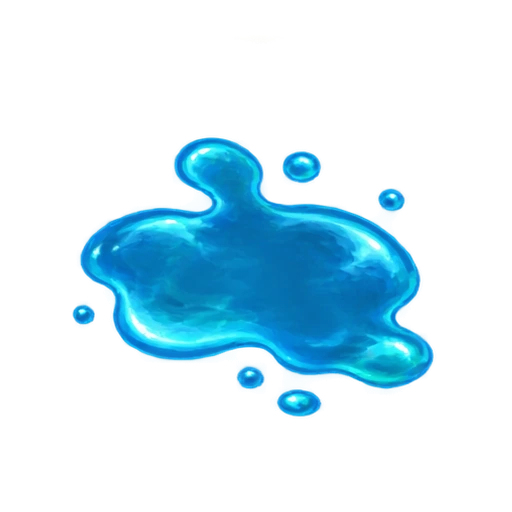
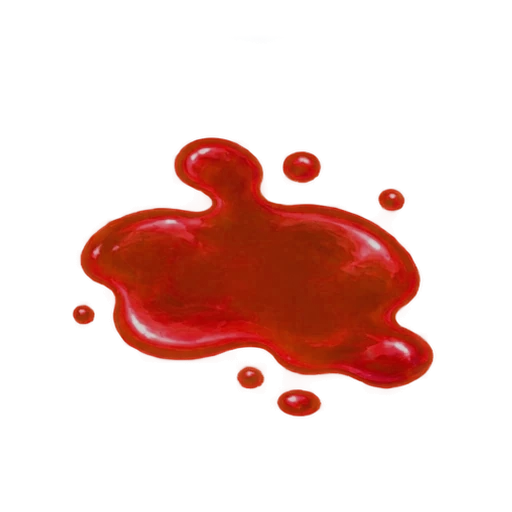
Плейтест владельца: кровь красная; слова комикса реже (пауза 1.1 с, обычные через раз), на весь экран — только босс/высокий удар/ДОСТОЙНЕЙШИЙ/связка, остальные у места удара и мельче вдали; перезарядка броска Мьёльнира 7 с, идеальный хват −5 с (качается трейтом/телом); GD_QUESTIONS п. 2 — глаголы ми
Claude-Session: https://claude.ai/code/session_01VJTLKmnhNNamp4KX9nU53m

Changed region(s): [[0.1562, 0.25, 0.8438, 0.8125], [0.4375, 0.7188, 0.5312, 0.7812], [0.125, 0.5938, 0.1875, 0.6562]]

diff --git a/CLAUDE.md b/CLAUDE.md
@@ -5,6 +5,7 @@
 ## Где что
 - `player/player.gd` — движение (рывок, двойной прыжок, удар-приземление, супер-прыжок; GDD 7.2: отскок от удара-приземления, прыжок по головам, залезание на уступ, отскок от стены, пике, отмена удара-приземления рывком — блок «Прыжки по GDD 7.2»), урон; `player/camera_fx.gd` — тряска/FOV/наклон.
 - `weapons/` — топор (`axe.gd`), Мьёльнир (`mjolnir_hand.gd` + `mjolnir_projectile.gd`: состояния OUT / HOVER / STUCK «воткнулся» / RETURN, идеальный хват), огонь (`fire_zone.gd`).
+- **Перезарядка броска Мьёльнира:** `MjolnirHand.throw_cooldown` (7 с от броска) и `perfect_cooldown_refund` (идеальный хват −5 с); качается — трейт `modify(&"throw_cooldown"/"perfect_cooldown_refund")`, тело/перк `player.modify_stat("hammer_cooldown_mult")`. Бросок на перезарядке — осечка (`throw_blocked`, звук, HUD «ПЕРЕЗАРЯДКА …» красным); новый зал — сброс (`reset_cooldown` в `Game._load_room`). Тесты, где важны броски подряд, ставят `hand.throw_cooldown = 0`; сама перезарядка — в `catch_test`.
 - **Подсказка идеального хвата:** `ui/catch_assist.gd` (`CatchAssist`, создаёт `VfxScreen._ready`) — сходящееся к прицелу кольцо по `MjolnirProjectile.catch_eta()` (прокрутка того же возврата вперёд; точно до кадра), золотое окно ±`perfect_window` (до и после поимки, `MjolnirHand.perfect_window_left()`), клавиша броска, стрелка «откуда летит», итог «ИДЕАЛЬНО!/РАНО/ПОЗДНО · мс» (сигнал `MjolnirHand.catch_timing`). Выключатель `[access] catch_assist` (по умолчанию вкл). Тест — `tests/catch_test.tscn` (с `-- <папка>` под xvfb — кадры).
 - **Трейты Мьёльнира — стихии × приёмы (блок Б4, GDD 10):** `weapons/mjolnir_trait.gd` (`MjolnirTrait`: `kind` element/technique/combo, описания уровней 1–4, `group` + `conflicts` — несовместимость приёмов, `level_pool_ids` — id открытий бывших трейтов по уровням стихии, `all_ids()` для `Save.target_exists`) и `weapons/mjolnir_trait_handler.gd` (`MjolnirTraitHandler`, хуки `on_throw`/`on_flight_tick`/`on_hit_enemy`/`on_hit_world`/`on_stuck_tick`/`on_recall_start`/`on_recall_tick`/`on_caught`/`on_player_slam`/`on_perfect_catch`, удержание ПКМ `on_hold_start/tick/release`, события для связок `on_pull_arrive`/`on_dive_slam`/`on_swap`, `modify(stat)` — в т. ч. `hold_throw`; урон — `hurt()` = `player.deal_damage`). Стихии (огонь, лёд, молния, земля, ветер) — наследники `MjolnirElementHandler` (`weapons/mjolnir_element.gd`: уровни = способ доставки 1 попадание / 2 след / 3 аура воткнутого / 4 с неба, `apply_element`, `slam_combo`, `world_effect` — брага `BrewPuddle.electrify_near/ignite_near`, бочки), состояния на враге — `weapons/element_status.gd` (`ElementStatus`), пятна следа — `weapons/element_zone.gd`. Приёмы и стихии — `weapons/mjolnir_traits/<id>.tres` + `<id>.gd`, связки — `weapons/mjolnir_traits/combos/` (включаются сами: `Run.active_combos()`, сигнал `Run.mjolnir_combo_unlocked` → `Game._on_combo_unlocked`: `ui/combo_announce.gd`, слово `combo`, `Odin.say("combo_<id>")`). Правила (1 стихия, до 2 приёмов, наковальня) — `weapons/mjolnir_rules.tres` (`MjolnirRules`, `Run.rules()`); выбор — `Run.random_mjolnir_trait_choices(count, kinds)`, `mjolnir_offer_ok`, `can_level_up`, `mjolnir_trait_conflict`. Активные — `Run.mjolnir_traits` (связок там нет), рука собирает копии: `hand.traits` + `hand.combo_traits`, `hand.element_handler()`, `hand.trait_handler(id)`; удержание ПКМ (Праща, Заряд) — `hand.begin_hold/release_hold`, усиление броска — `hand.next_throw`, пробитие щита/брони — `MjolnirProjectile.pierce` → `Enemy.armor_pierce_hit`. Где дают: мини-босс (стихия или приём) и дверь «Наковальня Эйтри» (`run/rewards/anvil.tres`, `RunMap.anvil_*`, `RewardFlow._offer_anvil`). Выбор — `ui/trait_pick.gd` (связка — особая карточка), иконки — `ui/mjolnir_traits_hud.gd` (+ полоска удержания).
 - Мини-босс: `enemies/miniboss_def.gd` (`MinibossDef`, `enemies/minibosses/*.tres`) — обычный враг с переопределёнными числами и `Kind.BOSS`; добавляется последней волной (`Room.add_wave`) в залах `Run.miniboss_rooms`, после него `Game` открывает выбор трейта, потом руны.

diff --git a/GD_QUESTIONS.md b/GD_QUESTIONS.md
@@ -101,3 +101,35 @@
 - переписать раздел 10 `GDD.md` под схему;
 - перегруппировать нынешние 13 трейтов — код уже на хуках (`MjolnirTraitHandler`), переделка недорогая;
 - добавить выбранные приёмы и связки.
+
+---
+
+## 2. Мили-оружие: все одинаковые (плейтест владельца, 27.10)
+
+**Проблема.** Оружие отличается только числами: урон, скорость, дальность. В руке это всегда «подбеги и маши ЛКМ».
+
+**Предложение.** У каждого оружия свой **глагол**, который меняет движение и позицию, а не только урон. Вертикаль — главный столп игры, поэтому большинство глаголов связано с воздухом, стенами и краями.
+
+| Оружие | Сильный удар (зажать ЛКМ) | Удар в воздухе | Зачем |
+|---|---|---|---|
+| **Топор** | Вертушка: круговой удар, Тор крутится и бьёт всех вокруг | Рубит вниз, Тор пикирует | толпа вокруг |
+| **Меч** | Выпад-рывок сквозь врага, оказываешься у него за спиной | — | активное парирование: ЛКМ в момент удара врага отражает снаряд или оглушает его |
+| **Копьё** | Пронзает линию врагов и прибивает их к стене (шмяк) | **Пого**: тычок вниз, отскок от головы врага, можно не касаться земли | вертикаль, шмяки |
+| **Дубина** | «Хоумран»: враг улетает и сбивает других как кегли, или вылетает за край | — | сброс с края, кегли |
+| **Кирка** | Врубается в стену: Тор висит на ней и может прыгнуть выше (кошка) | Удар в пол — мини-удар-приземление | лазать по колоннам и стенам |
+| **Коса** | Подкат-подсечка: враги подлетают, их можно добить в воздухе (жонгляж) | — | жонгляж, комбо с Мьёльниром |
+| **Нож** | Телепорт-рывок за спину ближайшему врагу, удар в спину ×3 | — | ассасин |
+| **Посох** | Шест: прыжок с опорой, самый высокий прыжок без руны | Ударная волна при приземлении | высота = удар-приземление сильнее |
+| **Лютня** (скальд) | Аккорд: отталкивает всех рядом | — | 4 разных удара подряд = «песня», бафф на 8 с |
+
+**Общие правила:**
+- **Удар в воздухе** у каждого оружия свой, а не «тот же удар, только в прыжке».
+- **Связки с Мьёльниром:**
+  - дубиной отбиваешь летящий молот, и он летит быстрее;
+  - косой подбрасываешь врага, и молот добивает его в воздухе.
+- **Шкала «ДОСТОЙНО!»** даёт очки за глагол оружия (пого, хоумран, кошка), так что разные клинки сами толкают к разнообразию.
+
+**Вопросы владельцу:**
+1. Глагол оружия — на сильном ударе (зажать ЛКМ), или отдельная кнопка (например, ПКМ+ЛКМ или колесо)?
+2. Какие 3–4 оружия сделать первыми? Предложение: копьё (пого), дубина (хоумран), кирка (кошка), меч (парирование).
+3. Уровни оружия (1–3) усиливают числа, как сейчас, или глагол (дальше пого, больше кегель)?
